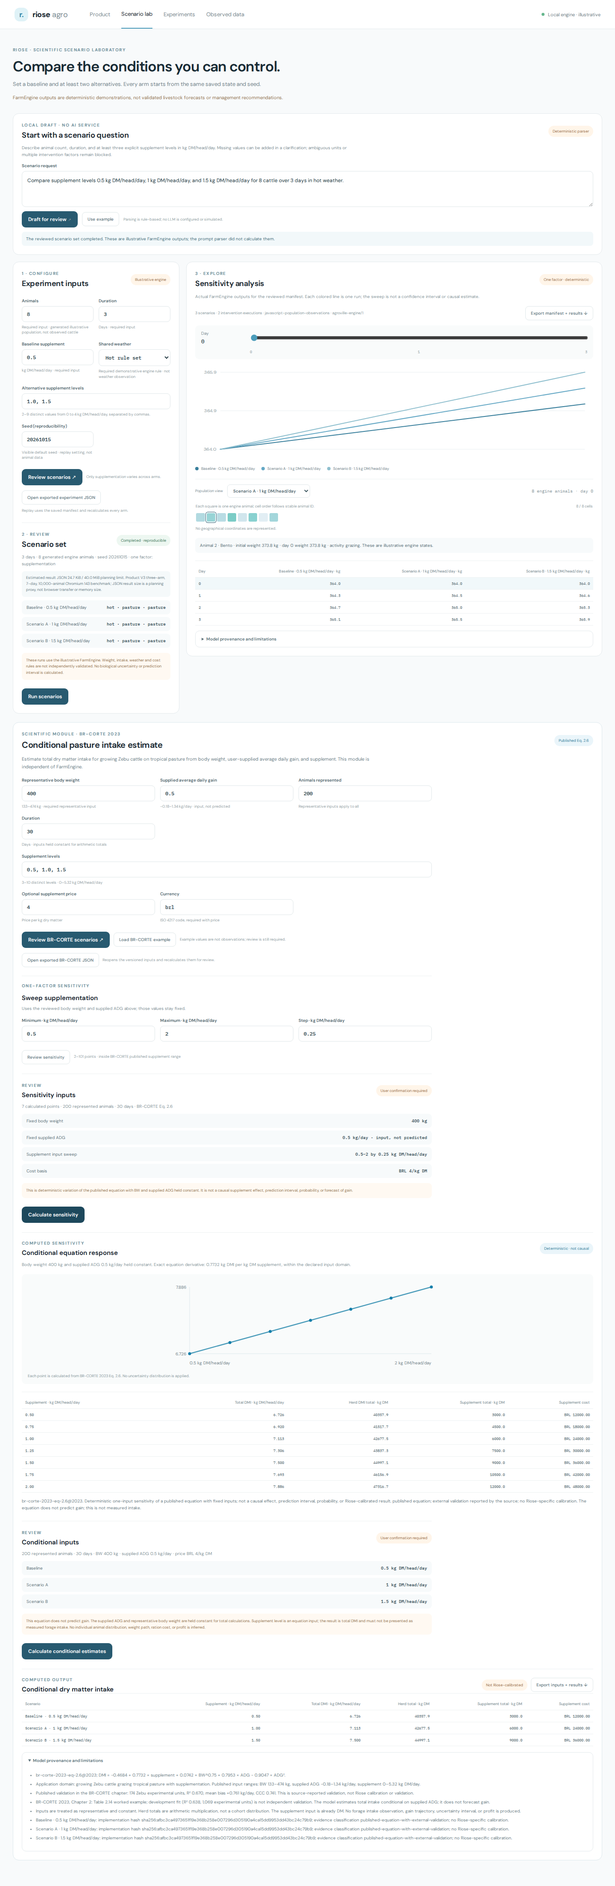
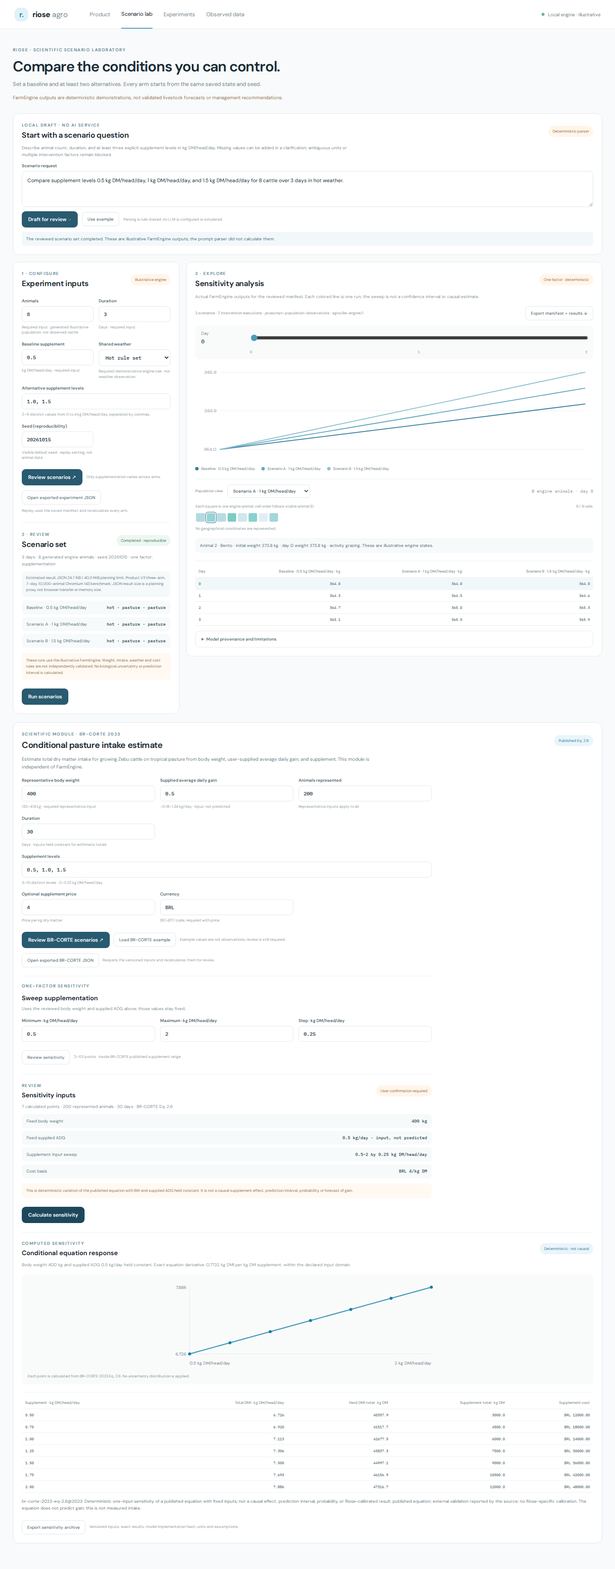
feat: archive and replay BR-CORTE sensitivity runs

diff --git a/src/client/scenario-lab-app.js b/src/client/scenario-lab-app.js
@@ -2,6 +2,7 @@ import {FarmEngine} from './engine.js';
 import {createScenarioSetManifest, validateScenarioSetManifest} from './scenario-set.js';
 import {createBrCorteDmiScenarioManifest, evaluateBrCorteDmiScenarioManifest, validateBrCorteDmiScenarioManifest} from './br-corte-scenario.js';
 import {createBrCorteSensitivityManifest, evaluateBrCorteSensitivityManifest} from './br-corte-sensitivity.js';
+import {createBrCorteSensitivityArchive, validateBrCorteSensitivityArchive} from './br-corte-sensitivity-archive.js';
 import {scenarioSetResultBudgetStatus, SCENARIO_SET_PROJECTED_JSON_BUDGET_BYTES} from './scenario-set-budget.js';
 import {combineScenarioLabClarification, interpretScenarioLabPrompt, validateScenarioLabIntent} from './scenario-lab-intent.js';
 import {canonicalScenarioLabJson, createScenarioLabArchive, sha256ScenarioLabJson, validateScenarioLabArchive, validateScenarioLabResultBinding} from './scenario-lab-integrity.js';
@@ -30,6 +31,7 @@ let reviewedBrCorteManifest = null;
 let brCorteResult = null;
 let reviewedBrCorteSensitivityManifest = null;
 let brCorteSensitivityResult = null;
+let brCorteSensitivityReplayExpectation = null;
 
 function status(message) {
   $('lab-status').textContent = message;
@@ -632,6 +634,7 @@ function renderBrCorteResults(result) {
 function resetBrCorteSensitivity() {
   reviewedBrCorteSensitivityManifest = null;
   brCorteSensitivityResult = null;
+  brCorteSensitivityReplayExpectation = null;
   $('br-corte-sensitivity-review').hidden = true;
   $('br-corte-sensitivity-results').hidden = true;
 }
@@ -778,12 +781,38 @@ $('br-corte-sensitivity-run').addEventListener('click', () => {
   if (!reviewedBrCorteSensitivityManifest) return;
   try {
     brCorteSensitivityResult = evaluateBrCorteSensitivityManifest(reviewedBrCorteSensitivityManifest);
+    if (brCorteSensitivityReplayExpectation
+        && canonicalScenarioLabJson(brCorteSensitivityResult) !== canonicalScenarioLabJson(brCorteSensitivityReplayExpectation)) {
+      throw new Error('Replayed sensitivity results differ from the saved calculation.');
+    }
     renderBrCorteSensitivityResults(brCorteSensitivityResult);
-    status('BR-CORTE deterministic sensitivity calculated from the reviewed inputs.');
+    status(brCorteSensitivityReplayExpectation
+      ? 'Sensitivity replay matches the saved results exactly.'
+      : 'BR-CORTE deterministic sensitivity calculated from the reviewed inputs.');
   } catch (error) {
     brCorteSensitivityResult = null;
     $('br-corte-sensitivity-results').hidden = true;
     status(error.message);
+  }
+});
+
+$('br-corte-sensitivity-export').addEventListener('click', async () => {
+  if (!reviewedBrCorteSensitivityManifest || !brCorteSensitivityResult) return;
+  const button = $('br-corte-sensitivity-export');
+  button.disabled = true;
+  try {
+    const archive = await createBrCorteSensitivityArchive({manifest: reviewedBrCorteSensitivityManifest, results: brCorteSensitivityResult});
+    const blob = new Blob([JSON.stringify(archive, null, 2)], {type: 'application/json'});
+    const link = document.createElement('a');
+    link.href = URL.createObjectURL(blob);
+    link.download = `${archive.type}-v${archive.version}.json`;
+    link.click();
+    setTimeout(() => URL.revokeObjectURL(link.href), 0);
+    status('BR-CORTE sensitivity archive exported with verified inputs, results and provenance.');
+  } catch (error) {
+    status(`Could not export sensitivity archive: ${error.message}`);
+  } finally {
+    button.disabled = false;
   }
 });
 
@@ -816,6 +845,32 @@ $('br-corte-file').addEventListener('change', async event => {
   try {
     if (file.size > 2 * 1024 * 1024) throw new Error('Saved BR-CORTE JSON must be 2 MB or smaller.');
     const saved = JSON.parse(await file.text());
+    if (saved?.type === 'riose-br-corte-dmi-sensitivity-archive') {
+      await validateBrCorteSensitivityArchive(saved);
+      resetBrCorteSensitivity();
+      const inputs = saved.manifest.inputs;
+      const scenarioForm = $('br-corte-form');
+      scenarioForm.elements.bodyWeightKg.value = String(inputs.bodyWeightKg);
+      scenarioForm.elements.adgKgPerDay.value = String(inputs.adgKgPerDay);
+      scenarioForm.elements.animalCount.value = String(inputs.animalCount);
+      scenarioForm.elements.durationDays.value = String(inputs.durationDays);
+      scenarioForm.elements.supplementPrice.value = inputs.supplementPricePerKgDM === null ? '' : String(inputs.supplementPricePerKgDM);
+      scenarioForm.elements.currency.value = inputs.currency ?? '';
+      $('br-corte-sensitivity-form').elements.minimumSupplement.value = String(inputs.sweep.minimum);
+      $('br-corte-sensitivity-form').elements.maximumSupplement.value = String(inputs.sweep.maximum);
+      $('br-corte-sensitivity-form').elements.sweepStep.value = String(inputs.sweep.step);
+      reviewedBrCorteManifest = null;
+      brCorteResult = null;
+      $('br-corte-review').hidden = true;
+      $('br-corte-results').hidden = true;
+      $('br-corte-sensitivity-results').hidden = true;
+      reviewedBrCorteSensitivityManifest = structuredClone(saved.manifest);
+      brCorteSensitivityReplayExpectation = structuredClone(saved.results);
+      renderBrCorteSensitivityReview(reviewedBrCorteSensitivityManifest);
+      status('Sensitivity archive validated and inputs loaded. Nothing was calculated; review and explicitly replay to compare results.');
+      return;
+    }
+    resetBrCorteSensitivity();
     const manifest = saved?.manifest;
     validateBrCorteDmiScenarioManifest(manifest);
     const form = $('br-corte-form');

diff --git a/src/client/br-corte-sensitivity-archive.js b/src/client/br-corte-sensitivity-archive.js
@@ -1,0 +1,69 @@
+import {evaluateBrCorteSensitivityManifest, validateBrCorteSensitivityManifest} from './br-corte-sensitivity.js';
+import {canonicalScenarioLabJson, sha256ScenarioLabJson} from './scenario-lab-integrity.js';
+
+export const BR_CORTE_SENSITIVITY_ARCHIVE_TYPE = 'riose-br-corte-dmi-sensitivity-archive';
+export const BR_CORTE_SENSITIVITY_ARCHIVE_VERSION = 1;
+
+const fail = message => { throw new TypeError(`BR-CORTE sensitivity archive is invalid: ${message}`); };
+const same = (left, right) => canonicalScenarioLabJson(left) === canonicalScenarioLabJson(right);
+const exactKeys = (value, fields, label) => {
+  if (!value || typeof value !== 'object' || Array.isArray(value)
+      || Object.keys(value).sort().join('|') !== [...fields].sort().join('|')) fail(`${label} has an invalid shape.`);
+};
+
+function implementationHash(results) {
+  const hashes = [...new Set(results.rows.map(row => row?.provenance?.implementationHash))];
+  if (hashes.length !== 1 || !/^sha256:[a-f0-9]{64}$/.test(hashes[0])) fail('results must identify one registered model implementation hash.');
+  return hashes[0];
+}
+
+function expectedResult(manifest) {
+  return evaluateBrCorteSensitivityManifest(manifest);
+}
+
+export async function createBrCorteSensitivityArchive({manifest, results} = {}) {
+  validateBrCorteSensitivityManifest(manifest);
+  if (!same(results, expectedResult(manifest))) fail('results do not reproduce from the supplied sensitivity manifest.');
+  const archive = {
+    type: BR_CORTE_SENSITIVITY_ARCHIVE_TYPE,
+    version: BR_CORTE_SENSITIVITY_ARCHIVE_VERSION,
+    manifest: structuredClone(manifest),
+    results: structuredClone(results),
+    provenance: {
+      manifestSha256: await sha256ScenarioLabJson(manifest),
+      resultsSha256: await sha256ScenarioLabJson(results),
+      modelId: manifest.model.id,
+      modelVersion: manifest.model.version,
+      modelImplementationHash: implementationHash(results),
+      executor: 'registered-scientific-model',
+      seed: null,
+      units: structuredClone(results.units),
+      assumptions: structuredClone(results.assumptions),
+      validated: false,
+    },
+  };
+  await validateBrCorteSensitivityArchive(archive);
+  return archive;
+}
+
+export async function validateBrCorteSensitivityArchive(archive) {
+  exactKeys(archive, ['type', 'version', 'manifest', 'results', 'provenance'], 'root');
+  if (archive.type !== BR_CORTE_SENSITIVITY_ARCHIVE_TYPE || archive.version !== BR_CORTE_SENSITIVITY_ARCHIVE_VERSION) fail('type/version is unsupported.');
+  validateBrCorteSensitivityManifest(archive.manifest);
+  if (!same(archive.results, expectedResult(archive.manifest))) fail('results do not reproduce from the archived manifest.');
+  const expected = {
+    manifestSha256: await sha256ScenarioLabJson(archive.manifest),
+    resultsSha256: await sha256ScenarioLabJson(archive.results),
+    modelId: archive.manifest.model.id,
+    modelVersion: archive.manifest.model.version,
+    modelImplementationHash: implementationHash(archive.results),
+    executor: 'registered-scientific-model',
+    seed: null,
+    units: archive.results.units,
+    assumptions: archive.results.assumptions,
+    validated: false,
+  };
+  exactKeys(archive.provenance, Object.keys(expected), 'provenance');
+  if (!same(archive.provenance, expected)) fail('provenance or canonical digests do not match the manifest and results.');
+  return true;
+}

diff --git a/tests/br-corte-sensitivity.test.js b/tests/br-corte-sensitivity.test.js
@@ -3,6 +3,7 @@ import assert from 'node:assert/strict';
 import {readFileSync} from 'node:fs';
 import Ajv2020 from 'ajv/dist/2020.js';
 import {createBrCorteSensitivityManifest, evaluateBrCorteSensitivityManifest, validateBrCorteSensitivityManifest} from '../src/client/br-corte-sensitivity.js';
+import {createBrCorteSensitivityArchive, validateBrCorteSensitivityArchive} from '../src/client/br-corte-sensitivity-archive.js';
 
 const reference = JSON.parse(readFileSync(new URL('./fixtures/scientific-numeric-reference-v1.json', import.meta.url), 'utf8')).fixtures.brCorte2023Eq26Table214;
 const schema = JSON.parse(readFileSync(new URL('../schemas/br-corte-dmi-sensitivity-request-v1.schema.json', import.meta.url), 'utf8'));
@@ -76,4 +77,30 @@ test('sensitivity validation rejects unsupported fields, out-of-domain ranges, a
   assert.throws(() => createBrCorteSensitivityManifest({...base, currency: 'BRL'}), /currency/);
   assert.throws(() => createBrCorteSensitivityManifest({...base, supplementPricePerKgDM: 4}), /currency/);
   assert.throws(() => validateBrCorteSensitivityManifest({...manifest, assumptions: {...manifest.assumptions, adg: 'predicted'}}), /assumptions/);
+});
+
+test('sensitivity archive binds the reviewed manifest, calculated results and model implementation', async () => {
+  const manifest = createBrCorteSensitivityManifest(base);
+  const results = evaluateBrCorteSensitivityManifest(manifest);
+  const archive = await createBrCorteSensitivityArchive({manifest, results});
+  assert.equal(archive.type, 'riose-br-corte-dmi-sensitivity-archive');
+  assert.equal(archive.version, 1);
+  assert.match(archive.provenance.manifestSha256, /^[a-f0-9]{64}$/);
+  assert.match(archive.provenance.resultsSha256, /^[a-f0-9]{64}$/);
+  assert.equal(archive.provenance.modelImplementationHash, results.rows[0].provenance.implementationHash);
+  assert.equal(await validateBrCorteSensitivityArchive(archive), true);
+  const archiveSchema = JSON.parse(readFileSync(new URL('../schemas/br-corte-dmi-sensitivity-archive-v1.schema.json', import.meta.url), 'utf8'));
+  const validator = new Ajv2020({allErrors: true});
+  validator.addSchema(schema);
+  assert.equal(validator.validate(archiveSchema, archive), true, JSON.stringify(validator.errors));
+});
+
+test('sensitivity archive rejects changed inputs, changed outputs and malformed provenance', async () => {
+  const manifest = createBrCorteSensitivityManifest(base);
+  const results = evaluateBrCorteSensitivityManifest(manifest);
+  const archive = await createBrCorteSensitivityArchive({manifest, results});
+  const changedManifest = createBrCorteSensitivityManifest({...base, animalCount: 201});
+  await assert.rejects(validateBrCorteSensitivityArchive({...archive, manifest: changedManifest}), /result|digest|manifest/i);
+  await assert.rejects(validateBrCorteSensitivityArchive({...archive, results: {...results, rows: results.rows.map((row, index) => index ? row : {...row, totalDmiKgDMPerHeadPerDay: 999})}}), /result|digest/i);
+  await assert.rejects(validateBrCorteSensitivityArchive({...archive, provenance: {...archive.provenance, modelImplementationHash: 'unknown'}}), /provenance/i);
 });

diff --git a/scenario-lab.html b/scenario-lab.html
@@ -116,6 +116,7 @@
         <figure class="sensitivity-figure"><div id="br-corte-sensitivity-chart" role="img"></div><figcaption>Each point is calculated from BR-CORTE 2023 Eq. 2.6. No uncertainty distribution is applied.</figcaption></figure>
         <div class="lab-table-scroll"><table><thead id="br-corte-sensitivity-table-head"></thead><tbody id="br-corte-sensitivity-table-body"></tbody></table></div>
         <p id="br-corte-sensitivity-provenance" class="sensitivity-limitation"></p>
+        <div class="lab-actions"><button id="br-corte-sensitivity-export" class="quiet-button" type="button">Export sensitivity archive</button><span>Versioned inputs, exact results, model implementation hash, units and assumptions.</span></div>
       </section>
       <section id="br-corte-review" class="review-panel" hidden aria-labelledby="br-corte-review-title">
         <div class="lab-card-heading"><div><p class="eyebrow">REVIEW</p><h3 id="br-corte-review-title">Conditional inputs</h3></div><span class="review-status">User confirmation required</span></div>

diff --git a/specs/riose-product-v4/handoff.md b/specs/riose-product-v4/handoff.md
@@ -1,14 +1,30 @@
 # Product V4 handoff
 
 Date: 2026-10-15
-Last verified commit: `8dc694f` (P4-003 explicit example and empty-input state); P4-004 materials are pending commit.
-Branch: `codex/behavioral-agents-sdd`.
+Last verified commit: `a014014` (P4-004 user discovery materials); P4-005 source and SDD updates are validated and awaiting commit.
+Current branch: `codex/behavioral-agents-sdd`.
 
-Completed tasks: P4-001 audit/spec bootstrap; P4-002 BR-CORTE sensitivity; P4-003 explicit empty/example inputs; P4-004 user discovery protocol and instruments prepared. Full suite currently 502/502; parity and V2/V3 E2E pass.
-Task in progress: none (P4-004 implementation complete, docs awaiting commit).
-READY: P4-005 sensitivity archive and deterministic replay. P3-007/P3-008 gates remain blocked.
-BLOCKED: remote AI agent/tools until P3-007 persistent spend gate; paid decision-use until P3-008 independent review. Behavioral model remains NO-GO.
-Files/evidence: V4 specification directory created; see `progress.md` for audited modules and baseline.
-Tests executed: starting checkout `npm test` 497/497, 0 fail; P4-002 sensitivity 5/5; BR-CORTE scenarios 3/3; Product V3 E2E pass (desktop/mobile sensitivity and edit invalidation; empty/example input state); Product V2 E2E pass; `npm test` 502/502; `npm run test:parity` pass.
-Scientific boundaries: BR-CORTE Eq. 2.6 consumes supplied ADG; it estimates total DMI within its declared domain. FarmEngine is demonstrative. Perea semi-Markov is not connected. No formulas, thresholds or scientific status changed.
-Next action: commit P4-004 documentation, then implement P4-005 as a separate versioned BR-CORTE sensitivity archive; do not alter or conflate existing scenario archives.
+Completed tasks: P4-001 audit/bootstrap; P4-002 registered BR-CORTE sensitivity sweep; P4-003 explicit empty/example state; P4-004 discovery protocol/demo/blank record prepared; P4-005 versioned sensitivity archive and explicit replay.
+Task in progress: none.
+READY: none in the current local V4 queue. Do not invent duplicate work. Existing V3 comparison/replay and conditional cost functions are reused. P3-007 remains blocked by the shared spend gate; P3-008 remains blocked pending independent review. Behavioral semi-Markov remains NO-GO.
+
+Files changed for P4-005: `src/client/br-corte-sensitivity-archive.js`, `schemas/br-corte-dmi-sensitivity-archive-v1.schema.json`, `src/client/scenario-lab-app.js`, `scenario-lab.html`, `tests/br-corte-sensitivity.test.js`, `scripts/e2e/scenario-lab.mjs`, and V4 task/progress/decision/acceptance docs.
+
+Checks actually executed:
+
+- `npm run test:br-corte-sensitivity` — 7/7 pass.
+- `npm run test:br-corte-scenarios` — 3/3 pass.
+- `npm run test:scenario-lab-integrity` — 4/4 pass.
+- `npm run test:e2e:scenario-lab` — PASS: sensitivity export, tamper rejection without replacing the prior result, valid archive opens without calculation, explicit replay matches exactly, edits invalidate review/results, mobile width 390 px with no horizontal overflow, zero console errors.
+- `npm run test:e2e:product` — PASS: Product V2 main flow including local replay and mobile layout.
+- `npm test` — 504/504 pass (starting suite was 497; P4-002 added 5 sensitivity tests and P4-005 added 2).
+- `npm run test:parity` — PASS, pasture seed 417/24 checkpoints; housing seed 2026/1,440 hourly checkpoints and 31 daily rows.
+- `git diff --check` — clean before commit.
+
+Visual evidence: Product V4 BR-CORTE sensitivity desktop and mobile screenshots at `docs/evidence/product-v4-br-corte-sensitivity-desktop.png` and `docs/evidence/product-v4-br-corte-sensitivity-mobile.png`. Captures were produced by the local Chromium Playwright E2E. T3 preview status explicitly reported that no automation host is attached to this headless environment; it instructed not to retry. Mobile results show no horizontal overflow. No new animation was introduced; existing reduced-motion CSS remains active.
+
+Scientific limitations: BR-CORTE Eq. 2.6 estimates total DMI conditionally using supplied ADG inside the declared domain. It does not predict ADG/gain, measure forage intake, or establish a causal supplement response; no Riose calibration is claimed. Cost is arithmetic from user-provided price per kg DM, amount, animal count and duration. FarmEngine remains illustrative. Sensitivity archive SHA-256 values verify content consistency but are not cryptographic signatures. Perea NO-GO unchanged; no formulas, thresholds, or status gates changed.
+
+External readiness: discovery protocol and neutral demo are prepared only. No participants contacted and no feedback/interview performed. Independent scientific review is still `NOT_PERFORMED`. No LLM provider call, push, merge, or remote history operation was performed.
+
+Next action: after committing this verified slice, await a new eligible local product task or human recruitment/consent for PRD-007. Do not treat participant discovery as scientific review or unblock P3-007/P3-008 without their real gates.

diff --git a/specs/riose-product-v4/product-requirements.md b/specs/riose-product-v4/product-requirements.md
@@ -5,9 +5,9 @@ V4 adds a decision-analysis layer to the Product V3 scenario lab at `scenario-la
 | ID | User-visible behavior | Inputs → outputs | Dependencies | Failure states | Acceptance | Scientific constraint | Status |
 |---|---|---|---|---|---|---|---|
 | PRD-001 | Compare a baseline with multiple alternatives side by side. | Reviewed scenario-set manifest → actual per-arm outputs. | P3-002/003. | Invalid arms, unsupported units, over-budget run. | Existing V3 E2E and replay checks. | Direct comparison only for same model/domain/unit/checkpoint; no causal interpretation. | DONE — reused |
-| PRD-002 | Sweep one eligible numeric model input over a reviewed interval. | Fixed model inputs + min/max/step → deterministic table/curve and optional mathematical local derivative. | BR-CORTE registered Eq. 2.6; new P4 sweep contract. | Out-of-domain, non-divisible step, excessive points, non-finite calculation. | Independently sourced vector, range/boundary tests, UI review-confirm-run E2E. | Equation sensitivity is not a causal effect, probability, or prediction interval. | READY |
+| PRD-002 | Sweep one eligible numeric model input over a reviewed interval. | Fixed model inputs + min/max/step → deterministic table/curve and optional mathematical local derivative. | BR-CORTE registered Eq. 2.6; new P4 sweep contract. | Out-of-domain, non-divisible step, excessive points, non-finite calculation. | Independently sourced vector, range/boundary tests, UI review-confirm-run E2E. | Equation sensitivity is not a causal effect, probability, or prediction interval. | DONE — P4-002 |
 | PRD-003 | Compare conditional supplement quantity and cost. | User-entered supplement DM price/currency, count, days, levels → transparent multiplication and deltas. | P3-004 existing contract. | Missing/mismatched price/currency or overflow. | Existing contract and scenario tests. | No invented prices, total ration cost, profit, ROI, or production response. | DONE — reused |
-| PRD-004 | Distinguish examples from user-supplied values. | Empty input or explicit example selection → reviewed form values with provenance. | Scenario lab forms and intent parser. | Missing required input is shown before review. | Browser E2E for blank initial state and explicit example selection. | Example/default is not observation or user data. | READY |
+| PRD-004 | Distinguish examples from user-supplied values. | Empty input or explicit example selection → reviewed form values with provenance. | Scenario lab forms and intent parser. | Missing required input is shown before review. | Browser E2E for blank initial state and explicit example selection. | Example/default is not observation or user data. | DONE — P4-003 |
 | PRD-005 | Ask grounded questions about model, applicability, results and provenance. | Local registered result/metadata → bounded explanation/draft. | P3-007 provider budget gate for remote AI; local deterministic tool path may proceed. | Unknown tool, unsupported model or no result: fail closed. | Allowlist/schema tests and explicit confirmation. | No generated outcomes or behavior control. | BLOCKED for remote LLM; local tools reuse pending audit |
-| PRD-006 | Export and reproduce reviewed scientific sensitivity runs. | Versioned request + model version/hash → result and deterministic replay check. | Existing scientific registry and archive contracts. | Version unavailable, tampering, mismatch. | Hash/tamper/replay tests. | Does not upgrade model evidence status. | BACKLOG |
-| PRD-007 | Prepare interviews and collect structured product feedback. | Demonstration + interview record → anonymized discovery findings. | Human participants and consent. | No responses means no validation claim. | Protocol and blank feedback template; no invented responses. | Product demand evidence does not validate science. | READY |
+| PRD-006 | Export and reproduce reviewed scientific sensitivity runs. | Versioned request + model version/hash → result and deterministic replay check. | Existing scientific registry and archive contracts. | Version unavailable, tampering, mismatch. | Hash/tamper/replay tests. | Does not upgrade model evidence status. | DONE — P4-005 |
+| PRD-007 | Prepare interviews and collect structured product feedback. | Demonstration + interview record → anonymized discovery findings. | Human participants and consent. | No responses means no validation claim. | Protocol and blank feedback template; no invented responses. | Product demand evidence does not validate science. | PREPARED — P4-004; collection requires human recruitment and consent |

diff --git a/specs/riose-product-v4/progress.md b/specs/riose-product-v4/progress.md
@@ -35,4 +35,17 @@
 - Prepared an exploratory protocol for a recurring pasture supplementation and cost-comparison decision, a seven-minute neutral product demonstration, and an empty anonymized feedback instrument.
 - The materials distinguish user-workflow evidence from scientific validation and commercial readiness. They prohibit invented participant data/prices, require consent, and do not authorize outreach. No interviews or external contact occurred.
 - Reviewed all three documents for consistency and blank response fields; `git diff --check` passes. No software tests apply to this document-only task.
-- P4-005 is READY: sensitivity results currently have no dedicated scientific archive/replay contract. The existing scenario-set archive must remain unchanged.
+- P4-005 was selected next because sensitivity output had no dedicated scientific archive/replay contract. The existing scenario-set archive remains unchanged.
+
+## P4-005 — BR-CORTE sensitivity archive and explicit replay
+
+- Added `riose-br-corte-dmi-sensitivity-archive/v1` and a strict JSON Schema. The archive records the complete reviewed sensitivity manifest, computed rows, model ID/version, registered implementation hash, canonical SHA-256 digests, executor, units, assumptions, and `seed: null` (the equation has no stochastic seed). `validated` remains false.
+- Archive creation and opening recompute Eq. 2.6 through the registered model and compare canonical result content. A changed input, output, implementation identity, digest, or provenance is rejected. This is integrity/reproducibility evidence, not a cryptographic signature or model validation.
+- Product export emits this archive. Opening one loads editable/reviewable inputs and the expected result but does not calculate. The explicit Calculate action re-executes and compares canonical outputs. Invalid import leaves the prior valid visible result intact. Existing `riose-scenario-lab-archive` v1 and BR-CORTE scenario export formats remain unchanged.
+- Tests: sensitivity contract/archive/schema 7/7; BR-CORTE scenario 3/3; scenario-lab archive integrity 4/4; Product V3 E2E PASS (download, tampered-result rejection, no-run open, explicit exact replay, edit invalidation, 390 px responsive check, no console errors); Product V2 E2E PASS; full `npm test` 504/504 (baseline was 497; seven sensitivity checks total); `npm run test:parity` PASS for pasture seed 417 (24 checkpoints) and housing seed 2026 (1,440 hourly checkpoints and 31 daily rows).
+- Browser visual review: T3 collaborative preview reported no automation host for this headless environment, so the existing local Chromium Playwright E2E was used. Desktop and 390 px mobile captures are in `docs/evidence/product-v4-br-corte-sensitivity-desktop.png` and `...-mobile.png`; mobile page has no horizontal overflow. Export action is present below the actual calculated table/provenance. No new motion was added; reduced-motion styling remains in force.
+- No scientific equation, domain, threshold, FarmEngine output, evidence status, behavioral gate, or paid-provider configuration changed. `P3-007` remains blocked and Perea semi-Markov remains NO-GO.
+
+## Queue review
+
+- No additional code task is READY without duplicating V3 comparison/replay, the existing cost calculator, or P4 sensitivity/archives. Remote AI remains behind P3-007; scientific/commercial approval remains behind P3-008; collecting user feedback requires real recruited participants and consent. These are gates/dependencies, not work that can be represented as completed locally.

diff --git a/specs/riose-product-v4/tasks.md b/specs/riose-product-v4/tasks.md
@@ -54,13 +54,13 @@ Status: DONE (protocol, neutral demo script and blank feedback instrument review
 
 ID: P4-005
 Title: Export, validate, reopen and explicitly replay a scientific sensitivity calculation
-Specification reference: `product-requirements.md` PRD-006; `scientific-contracts.md`; P4-ACC-005
+Specification reference: `product-requirements.md` PRD-006; `scientific-contracts.md`; P4-ACC-009
 Dependencies: P4-002
 Implementation scope: Add a versioned BR-CORTE sensitivity archive with strict manifest/result binding and hashes; allow opening a saved sensitivity archive into a review state; require explicit recalculation and compare the regenerated result to the archived result. Preserve existing scenario-set and BR-CORTE scenario archives.
 Acceptance criteria: Export includes exact reviewed manifest, calculated result, model implementation provenance and canonical digests; modified manifest/result is rejected; reopening never calculates; an explicit replay reproduces byte-canonical result content; existing archive formats continue to work.
 Required tests: archive contract/unit tests; Product V3 browser E2E for export/open/no-auto-run/replay/tampering; existing scenario archive and BR-CORTE scenario tests.
 Evidence: `progress.md`, focused test output, E2E output.
-Status: READY
+Status: DONE (versioned archive schema/module; unit tests verify reproducible result binding, hashes, and tamper rejection; Product E2E verifies export, invalid archive isolation, open-without-run, and explicit exact replay; existing scenario archive remains unchanged).
 
 ## Reused / gated capabilities
 

diff --git a/specs/riose-product-v4/decisions.md b/specs/riose-product-v4/decisions.md
@@ -6,3 +6,5 @@
 - P4-ADR-004: FarmEngine and BR-CORTE outputs remain separate; the same visualization may not imply shared scientific status.
 - P4-ADR-005: Empty scientific inputs are preferred to silent prefilled numbers; sample values must be explicitly loaded and labeled as examples.
 - P4-ADR-006: Any LLM planning integration remains behind P3-007's persistent cost gate. Deterministic local validation and computation can ship without it.
+- P4-ADR-007: BR-CORTE sensitivity uses its own v1 archive contract instead of changing the V3 scenario-set archive or the existing BR-CORTE scenario export. Reproduction is deterministic through the registered Eq. 2.6 implementation; `seed` is explicitly null because that calculation is not stochastic. Canonical hashes detect accidental/tampered content but are not signatures or evidence of scientific validity.
+- P4-ADR-008: A valid sensitivity archive opens into review only. Recalculation requires the user's explicit Calculate action; imported expected output is compared canonically after re-execution.

diff --git a/specs/riose-product-v4/acceptance-criteria.md b/specs/riose-product-v4/acceptance-criteria.md
@@ -10,3 +10,4 @@
 | P4-ACC-006 | Empty state distinguishes absent user inputs from an explicitly loaded example. | Browser E2E/accessibility review |
 | P4-ACC-007 | V2/V3, 497 baseline suite, parity as applicable, Perea NO-GO and provider/science gates remain unchanged. | Regression output and status records |
 | P4-ACC-008 | Product discovery materials are prepared without fabricating user feedback or contacting participants. | Demonstration script, question guide and blank structured record |
+| P4-ACC-009 | Sensitivity archive is versioned, verifies the exact registered-model result and provenance, opens without calculation, and replays only after explicit confirmation. | Archive unit/schema tests, tampering tests and Product V3 browser E2E |
